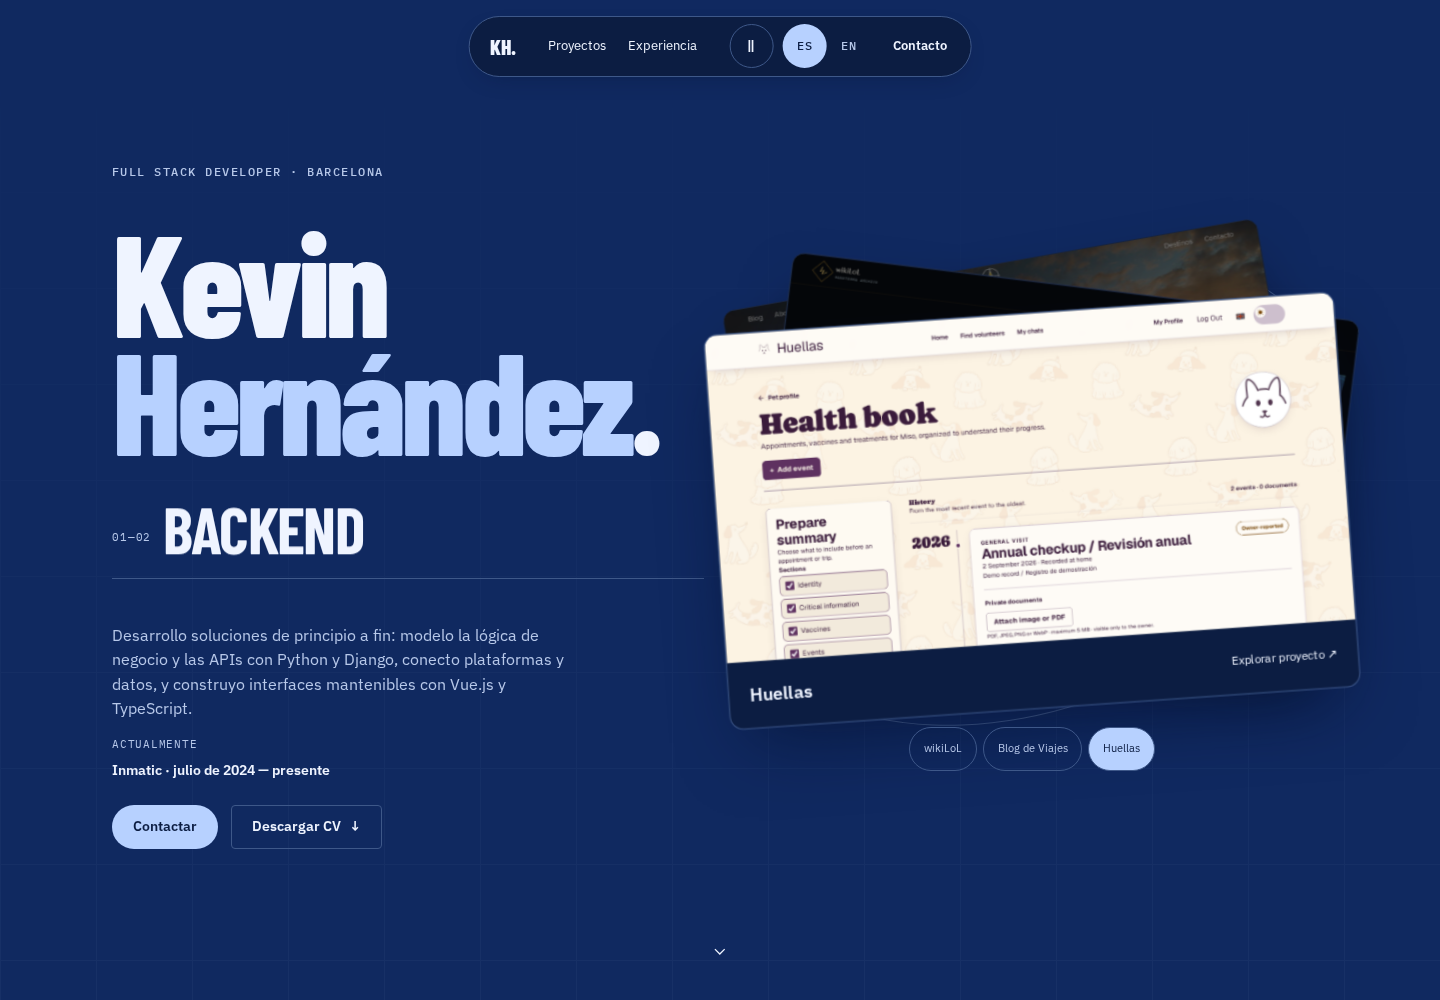
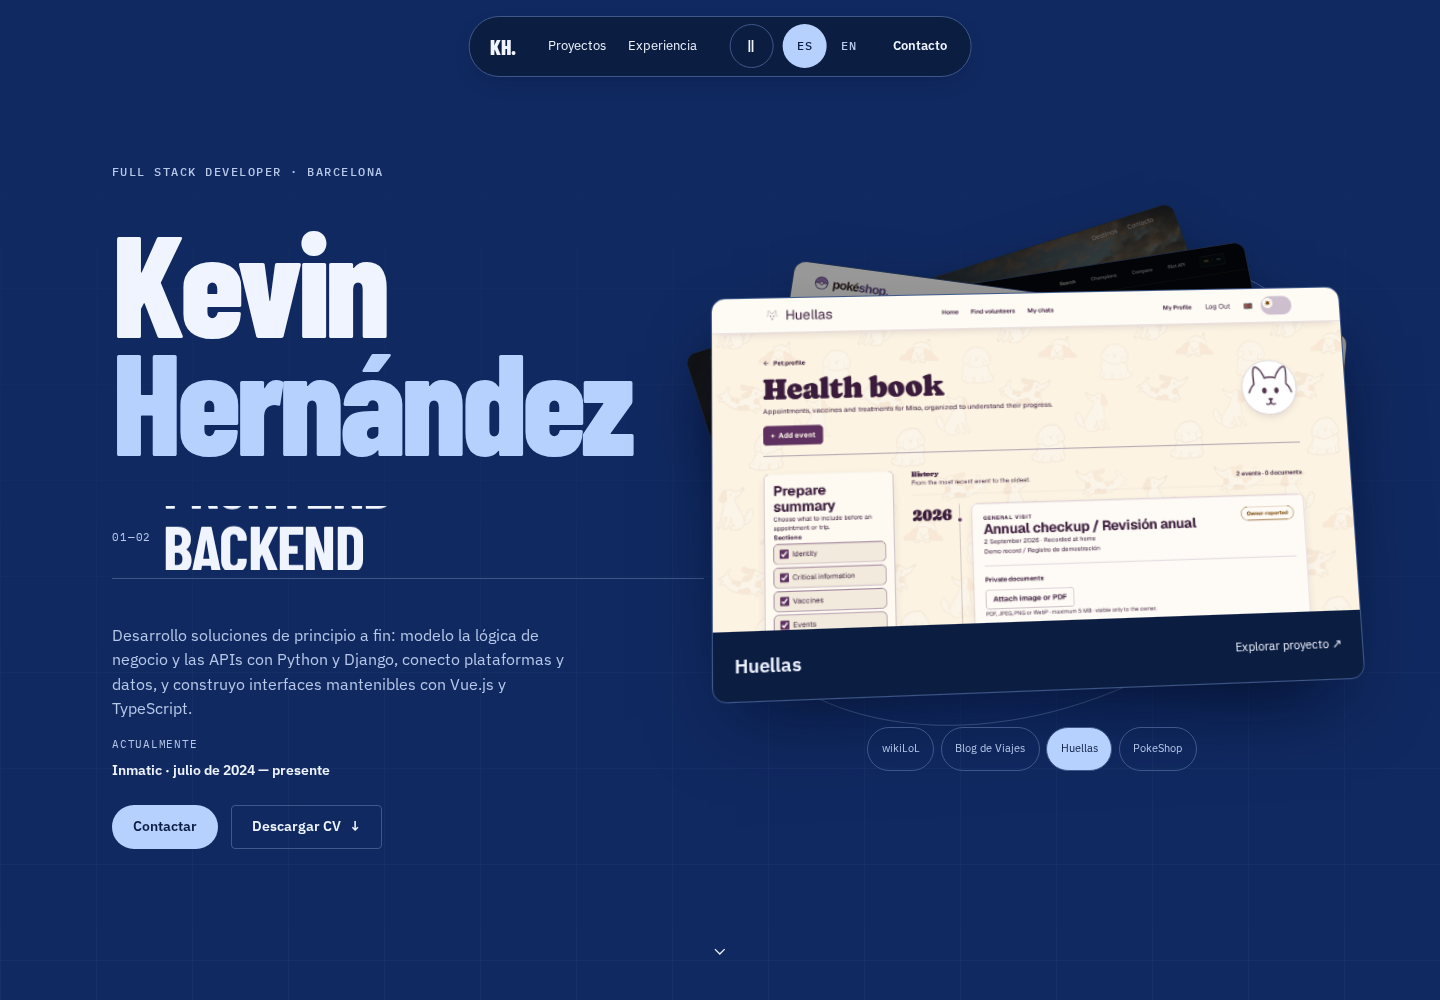
feat: add PokeShop portfolio case study and fourth project card

diff --git a/src/data/caseStudies.ts b/src/data/caseStudies.ts
@@ -375,3 +375,49 @@ export const huellasCaseStudy: CaseStudy = {
     },
   ],
 };
+
+export const pokeShopCaseStudy: CaseStudy = {
+  slug: "pokeshop",
+  index: "04",
+  name: "PokeShop",
+  descriptor: {es: "Tienda Pokémon · Demo full stack", en: "Pokémon shop · Full-stack demo"},
+  summary: {
+    es: "Explora Pokémon, comparte tus filtros y conserva tu carrito. Una tienda de demostración con Vue, FastAPI y PostgreSQL, desplegada en una VPS con HTTPS.",
+    en: "Explore Pokémon, share your filters, and keep your cart. A demo shop built with Vue, FastAPI, and PostgreSQL, deployed on a VPS with HTTPS.",
+  },
+  contribution: {
+    es: "Demo educativa independiente, sin pagos ni pedidos reales. Los nombres y las ilustraciones de Pokémon pertenecen a sus titulares; los datos y recursos proceden de PokéAPI. Sin afiliación oficial.",
+    en: "Independent educational demo, without payments or real orders. Pokémon names and artwork belong to their rights holders; data and assets come from PokéAPI. No official affiliation.",
+  },
+  image: `${import.meta.env.BASE_URL}assets/images/pokeshop/home.png`,
+  imageAlt: {es: "Portada de PokeShop con Bulbasaur, Charmander y Squirtle", en: "PokeShop home with Bulbasaur, Charmander, and Squirtle"},
+  demoUrl: "https://pokeshop-app.duckdns.org",
+  repositoryUrl: "https://github.com/kevin0018/PokeShop",
+  stack: ["Vue 3", "TypeScript", "FastAPI", "PostgreSQL", "Pinia", "Docker", "Playwright"],
+  traceLabels: {es: ["Catálogo", "Carrito", "Despliegue"], en: ["Catalog", "Cart", "Deployment"]},
+  steps: [
+    {
+      id: "catalog-import",
+      label: {es: "Datos", en: "Data"},
+      title: {es: "El catálogo no depende de una petición a PokéAPI", en: "The catalog does not depend on a PokéAPI request"},
+      body: {es: "La tienda consulta PostgreSQL. Un importador reanudable incorpora los datos de PokéAPI con concurrencia limitada, reintentos y guardado por producto. Las sincronizaciones conservan precios y stock existentes.", en: "The shop queries PostgreSQL. A resumable importer brings in PokéAPI data with bounded concurrency, retries, and per-product commits. Synchronization preserves existing prices and stock."},
+      evidence: {es: "FastAPI · SQLAlchemy · importación idempotente", en: "FastAPI · SQLAlchemy · idempotent imports"},
+    },
+    {
+      id: "persistent-cart",
+      label: {es: "Estado", en: "State"},
+      title: {es: "Un carrito que sobrevive a los errores de red", en: "A cart that survives network errors"},
+      body: {es: "El carrito conserva sus entradas en el navegador y actualiza los precios desde la API. Los filtros viven en la URL; los cambios provisionales se aplican o descartan explícitamente y las consultas obsoletas se cancelan.", en: "The cart preserves its entries in the browser and refreshes prices from the API. Filters live in the URL; provisional changes are explicitly applied or discarded, and stale requests are cancelled."},
+      evidence: {es: "Pinia · URL compartible · recuperación de estado", en: "Pinia · shareable URL · state recovery"},
+    },
+    {
+      id: "vps-deployment",
+      label: {es: "Entrega", en: "Delivery"},
+      title: {es: "De la aplicación a una demo pública con HTTPS", en: "From application to public HTTPS demo"},
+      body: {es: "Docker Compose separa frontend, API y base de datos. Nginx sirve la aplicación y dirige /api al backend; PostgreSQL permanece en una red privada. Las pruebas de navegador cubren catálogo, carrito, idiomas y temas.", en: "Docker Compose separates frontend, API, and database. Nginx serves the app and routes /api to the backend; PostgreSQL stays on a private network. Browser tests cover the catalog, cart, languages, and themes."},
+      evidence: {es: "Docker · Nginx · HTTPS · Playwright", en: "Docker · Nginx · HTTPS · Playwright"},
+    },
+  ],
+};
+
+export const featuredCaseStudies = [wikiLolCaseStudy, travelBlogCaseStudy, huellasCaseStudy, pokeShopCaseStudy];

diff --git a/src/data/projectGallery.ts b/src/data/projectGallery.ts
@@ -24,4 +24,9 @@ export const projectGallery: Record<string, GalleryView[]> = {
     {title: {es: "Cartilla y documentos", en: "Records and documents"}, description: {es: "Consulta el historial, adjunta documentos privados y elige qué información incluir en un resumen descargable o en un enlace temporal.", en: "Read the history, attach private documents, and choose which information to include in a downloadable summary or temporary link."}, alt: {es: "Historial y opciones de resumen de Huellas, minuto 1:18", en: "Huellas history and summary options from the tour at 1:18"}, image: asset("huellas/health-record.jpg")},
     {title: {es: "Plan preventivo", en: "Preventive plan"}, description: {es: "Distingue lo vencido, lo próximo y lo que está al día. Registrar un cuidado actualiza el plan y permite consultar cómo se calcula cada fecha.", en: "See what is overdue, upcoming, or up to date. Recording care updates the plan, and each date’s calculation can be inspected."}, alt: {es: "Plan preventivo de Rocky en Huellas, minuto 1:34", en: "Rocky’s preventive plan in Huellas from the tour at 1:34"}, image: asset("huellas/preventive-plan.jpg")},
   ],
+  pokeshop: [
+    {title: {es: "Elegir un inicial", en: "Choose a starter"}, description: {es: "Bulbasaur, Charmander y Squirtle abren la tienda. Entra en sus fichas o explora el catálogo de Kanto desde la portada.", en: "Bulbasaur, Charmander, and Squirtle introduce the shop. Open their details or explore the Kanto catalog from the home page."}, alt: {es: "Portada de PokeShop con los iniciales de Kanto", en: "PokeShop home featuring Kanto starters"}, image: asset("pokeshop/home.png")},
+    {title: {es: "Filtrar el catálogo", en: "Filter the catalog"}, description: {es: "Busca por nombre y combina tipo, región, generación y forma. Aplica tus filtros y comparte la selección mediante la URL.", en: "Search by name and combine type, region, generation, and form. Apply your filters and share the selection through its URL."}, alt: {es: "Catálogo paginado de PokeShop", en: "PokeShop paginated catalog"}, image: asset("pokeshop/catalog.png")},
+    {title: {es: "Preparar el carrito", en: "Build your cart"}, description: {es: "Añade Pokémon, ajusta cantidades y consulta el total. El carrito se conserva al volver; los precios y el stock son ficticios y no se realizan compras.", en: "Add Pokémon, adjust quantities, and check the total. Your cart is saved for your return; prices and stock are fictional and no purchases are made."}, alt: {es: "Carrito persistente de PokeShop con resumen de productos", en: "PokeShop persistent cart with product summary"}, image: asset("pokeshop/cart.png")},
+  ],
 };

diff --git a/src/components/ProjectStage.tsx b/src/components/ProjectStage.tsx
@@ -1,10 +1,10 @@
 import {useRef, useState, type PointerEvent} from "react";
-import {huellasCaseStudy, travelBlogCaseStudy, wikiLolCaseStudy, type Language} from "../data/caseStudies";
+import {featuredCaseStudies, type Language} from "../data/caseStudies";
 
-const projects = [wikiLolCaseStudy, travelBlogCaseStudy, huellasCaseStudy];
+const projects = featuredCaseStudies;
 
 export function ProjectStage({language}: {language: Language}) {
-  const [selected, setSelected] = useState(2);
+  const [selected, setSelected] = useState(projects.length - 1);
   const stageRef = useRef<HTMLDivElement>(null);
 
   function move(event: PointerEvent<HTMLDivElement>) {
@@ -51,7 +51,7 @@ export function ProjectStage({language}: {language: Language}) {
 export function SelectedWork({language}: {language: Language}) {
   return (
     <section className="selected-work page-shell" id="proyectos" aria-labelledby="selected-work-title">
-      <div className="selected-work__heading"><h2 id="selected-work-title">{language === "es" ? "Ideas llevadas a la práctica." : "Ideas brought to life."}</h2><span>{language === "es" ? "Tres proyectos, por dentro" : "Inside three projects"} ↙</span></div>
+      <div className="selected-work__heading"><h2 id="selected-work-title">{language === "es" ? "Ideas llevadas a la práctica." : "Ideas brought to life."}</h2><span>{language === "es" ? "Cuatro proyectos, por dentro" : "Inside four projects"} ↙</span></div>
       <div className="selected-work__list">
         {projects.map(project => <a className={`work-link work-link--${project.slug}`} href={`#${project.slug}`} key={project.slug}>
           <figure><img src={project.image} alt={project.imageAlt[language]} loading="lazy" width="1440" height="900" /></figure>

diff --git a/src/App.tsx b/src/App.tsx
@@ -5,7 +5,7 @@ import {ProfessionalJourney} from "./components/ProfessionalJourney";
 import {MotionEffects} from "./components/MotionEffects";
 import {SelectedWork} from "./components/ProjectStage";
 import {SiteHeader} from "./components/SiteHeader";
-import {huellasCaseStudy, travelBlogCaseStudy, wikiLolCaseStudy, type Language} from "./data/caseStudies";
+import {featuredCaseStudies, type Language} from "./data/caseStudies";
 
 function getInitialLanguage(): Language {
   const stored = window.localStorage.getItem("portfolio-language");
@@ -29,9 +29,7 @@ function App() {
       <main>
         <HeroSection language={language} />
         <SelectedWork language={language} />
-        <CaseStudySection caseStudy={wikiLolCaseStudy} language={language} />
-        <CaseStudySection caseStudy={travelBlogCaseStudy} language={language} />
-        <CaseStudySection caseStudy={huellasCaseStudy} language={language} />
+        {featuredCaseStudies.map(caseStudy => <CaseStudySection key={caseStudy.slug} caseStudy={caseStudy} language={language} />)}
         <ProfessionalJourney language={language} />
       </main>
       <footer className="site-footer" id="contacto">

diff --git a/src/index.css b/src/index.css
@@ -1887,3 +1887,16 @@ html:has([data-motion-paused="true"]) { scroll-behavior: auto; }
 [data-motion-paused="true"] .project-gallery img { animation: none !important; }
 
 button.project-stage__screen { padding: 0; text-align: left; width: 100%; }
+
+/* Four projects share the same selectable deck and visual index. */
+.project-stage__screen--3 { transform: translate3d(-48px, -92px, -150px) rotate(-19deg); filter: brightness(.4); z-index: 0; cursor: pointer; }
+.project-stage__selector { flex-wrap: wrap; }
+.selected-work__list { grid-template-columns: repeat(2, minmax(0, 1fr)); gap: 3rem; }
+.work-link:nth-child(n) { margin-top: 0; }
+.work-link:nth-child(even) { margin-top: 3rem; }
+.case-study--pokeshop { --color-project-accent: var(--color-stage-accent); --color-project-accent-soft: var(--color-stage-ink); background: var(--color-stage-deep); }
+@media (max-width: 767px) {
+  .selected-work__list { grid-template-columns: minmax(0, 1fr); }
+  .work-link:nth-child(n) { margin-top: 0; }
+  .project-stage__deck { bottom: 28%; }
+}

diff --git a/design.md b/design.md
@@ -11,7 +11,7 @@ enough evidence to inspect the decisions behind each project.
 ## Visual thesis
 
 **Working software on a kinetic blue stage.** The opening pairs Kevin's name
-with real screenshots of all three featured projects. A selectable deck moves
+with real screenshots of all four featured projects. A selectable deck moves
 in perspective with the pointer; clicking a rear card brings it forward, just like
 the selector buttons; its active screenshot links into the case study.
 The existing Barlow Condensed / IBM Plex identity remains recognizable.
@@ -21,7 +21,7 @@ The existing Barlow Condensed / IBM Plex identity remains recognizable.
 - Navigation: N5 floating navigation with work, experience, language, and motion controls.
 - Footer: Ft8 kinetic contact marquee with direct email and social links.
 
-The visual work index precedes the three case studies; professional experience
+The visual work index precedes the four case studies; professional experience
 follows them and remains directly accessible from the desktop navigation.
 Scroll remains native for mouse, touch, and keyboard. Project previews use real
 captures without invented browser chrome. Huellas carries visible team attribution
@@ -57,7 +57,7 @@ Content remains visible if decorative observers are unavailable.
 
 - 320–767px: stacked introduction and project deck; a single-column work index;
   manual galleries pair each selected screenshot with a short product explanation.
-- 768–1099px: split hero and staggered three-project index.
+- 768–1099px: split hero and staggered four-project index.
 - 1100px and above: manual galleries place the selected capture beside its explanation.
 
 ## Component rules

diff --git a/README.es.md b/README.es.md
@@ -23,11 +23,12 @@ viven sus decisiones técnicas importantes.
 - Revisa casos verificados de
   [wikiLoL](https://github.com/kevin0018/wikiLoL),
   [Blog de Viajes](https://github.com/kevin0018/Blog-de-Viajes) y
-  [Huellas](https://github.com/kevin0018/Huellas).
+  [Huellas](https://github.com/kevin0018/Huellas) y
+  [PokeShop](https://github.com/kevin0018/PokeShop).
 - Explora una composición interactiva de capturas con profundidad al mover el
   cursor, un índice visual, entradas al hacer scroll y una banda de contacto animada.
   Las animaciones se pueden pausar desde la cabecera.
-- Abre las demos de los tres proyectos, el vídeo de Huellas, los repositorios,
+- Abre las demos de los cuatro proyectos, el vídeo de Huellas, los repositorios,
   el CV y las vías de contacto desde la página.
 - Usa la interfaz con foco visible, objetivos mínimos de 44px y un modo específico
   de movimiento reducido.
@@ -142,3 +143,7 @@ respaldado ni patrocinado por Riot Games.
 Huellas es un proyecto con Adriana Elias, Aroa Granja y Fernanda Montalvan. Mi
 aportación abarca arquitectura, pruebas, backend y modernización posterior. El
 diseño y branding originales son de Aroa. Se enlazan la [demo de Huellas](https://huellas-frontend.vercel.app/) y el vídeo del proyecto.
+
+PokeShop es una demo educativa independiente con precios y stock ficticios,
+sin pagos ni pedidos reales. Los nombres e ilustraciones de Pokémon pertenecen
+a sus titulares; los datos y recursos proceden de PokéAPI.

diff --git a/README.md b/README.md
@@ -23,10 +23,11 @@ important technical decisions live.
 - Inspect verified case studies for
   [wikiLoL](https://github.com/kevin0018/wikiLoL),
   [Blog de Viajes](https://github.com/kevin0018/Blog-de-Viajes), and
-  [Huellas](https://github.com/kevin0018/Huellas).
+  [Huellas](https://github.com/kevin0018/Huellas), and
+  [PokeShop](https://github.com/kevin0018/PokeShop).
 - Explore an interactive project deck with pointer-driven depth, a visual work
   index, scroll entrances, and a moving contact marquee. Pause motion from the header.
-- Open live demos for all three projects, plus the recorded tour for Huellas.
+- Open live demos for all four projects, plus the recorded tour for Huellas.
   Source repositories, résumé, and contact routes remain directly accessible.
 - Use the interface with visible focus, 44px minimum targets, and a dedicated
   reduced-motion mode.
@@ -140,3 +141,7 @@ the original design and branding. Huellas links to its [live demo](https://huell
 Legends imagery shown inside the wikiLoL capture belongs to Riot Games. wikiLoL
 is a non-commercial educational project and is not affiliated with, endorsed
 by, or sponsored by Riot Games.
+
+PokeShop is an independent educational demo with fictional prices and stock,
+without payments or real orders. Pokémon names and artwork belong to their
+rights holders; data and assets come from PokéAPI.

diff --git a/public/assets/images/pokeshop/SOURCES.md b/public/assets/images/pokeshop/SOURCES.md
@@ -1,0 +1,6 @@
+# PokeShop screenshots
+
+Copied without edits from `PokeShop/docs/home.png`, `catalog.png`, and `cart.png` on 2026-09-07.
+
+Source: https://github.com/kevin0018/PokeShop
+Pokémon names and artwork belong to their rights holders. Data and assets come from PokéAPI. Independent educational demo.
